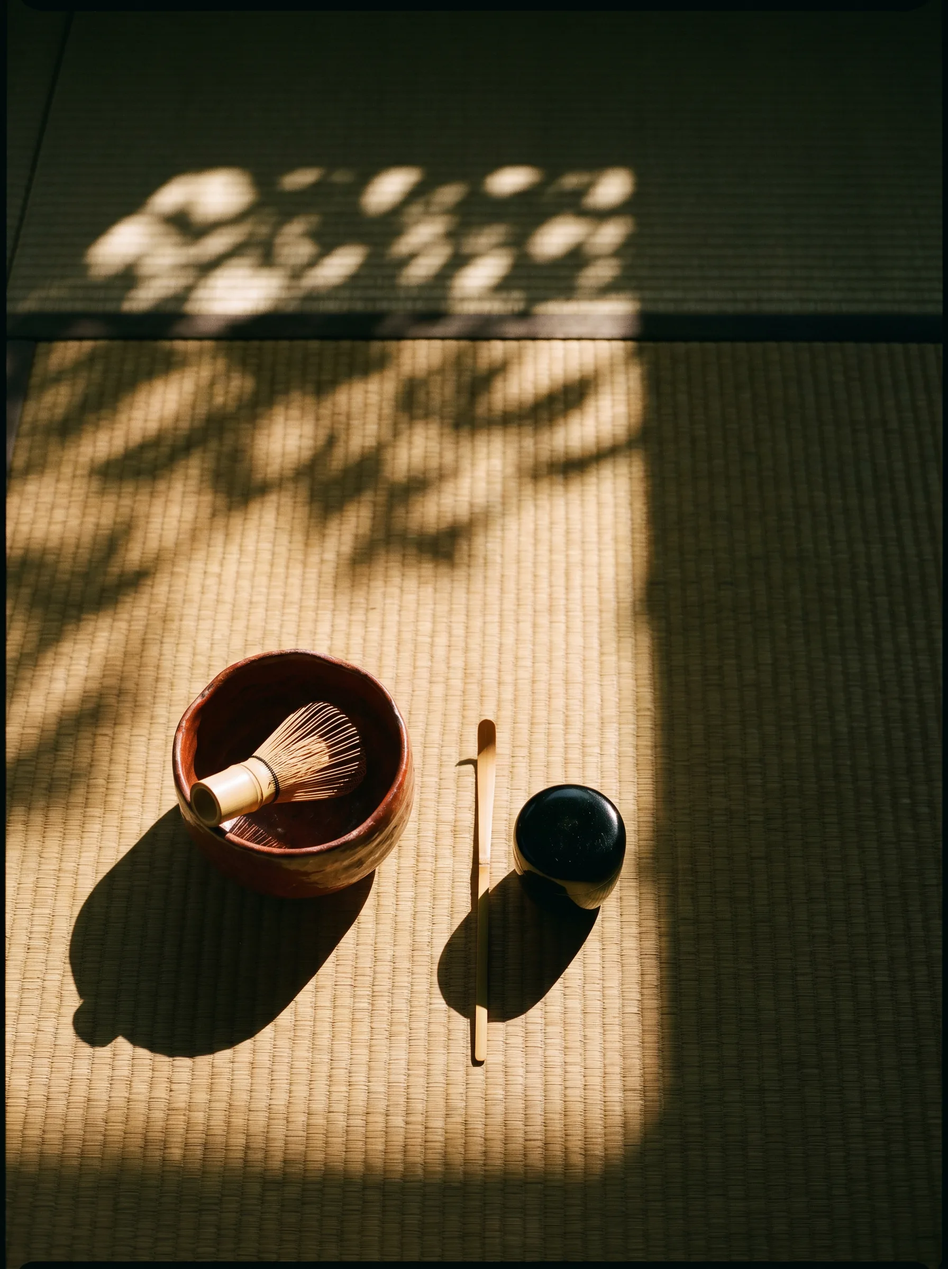
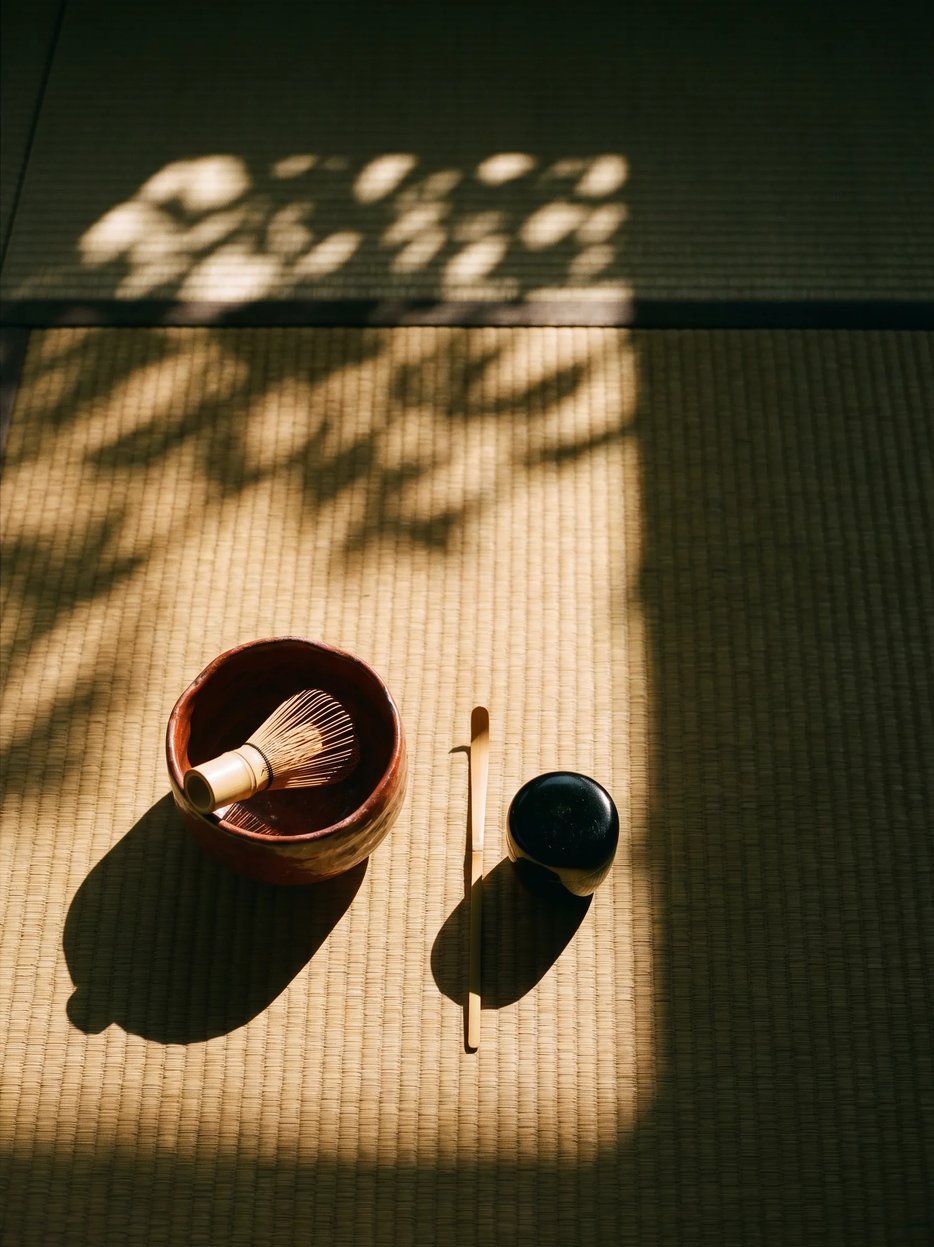
Fix mask-reveal photos never opening; trim mood_02's black bars
The Stay Concept and amenity photos stayed hidden: .mk-reveal-mask put
its closing clip-path on the figure that use:reveal observes, and
Chrome's IntersectionObserver clips a target by its own clip-path, so a
frame clipped to zero height never reached the 0.2 threshold. The clip
(and the blush placeholder) now live on the img; the frame only crops
the zoom, so it can always be observed. The reveal looks the same.

convert_images.py now trims letterbox bars baked into a source (flat
near-black lines on both opposite sides) - mood_02 had ~10px on every
side, showing as hairlines in the amenity frame, the menu tile and the
Osu card.

Changed region(s): [[0.0, 0.0928, 1.0, 1.0], [0.4046, 0.557, 0.4358, 0.6189]]

diff --git a/static/css/base.css b/static/css/base.css
@@ -688,21 +688,25 @@ html.js .reveal-img:not(.is-visible) {
 }
 
 /* Image mask reveal (MKSK): the frame opens top-down while the photo
- * settles from a slight zoom. */
+ * settles from a slight zoom. The closing clip sits on the photo, never on
+ * the frame: the frame is what use:reveal observes, and Chrome's
+ * IntersectionObserver clips a target by its own clip-path — a frame
+ * clipped to zero height never reaches the threshold, so it never opens.
+ * The frame only crops the zoom; the placeholder colour belongs on the img
+ * (so it opens with the photo, not before it). */
 .mk-reveal-mask {
-	clip-path: inset(0);
-	transition: clip-path 1.2s var(--mk-ease-silk) var(--reveal-d, 0s);
+	overflow: hidden;
 }
 
 .mk-reveal-mask img {
-	transition: transform 1.6s var(--mk-ease-out) var(--reveal-d, 0s);
-}
-
-html.js .mk-reveal-mask:not(.is-visible) {
-	clip-path: inset(0 0 100% 0);
+	clip-path: inset(0);
+	transition:
+		clip-path 1.2s var(--mk-ease-silk) var(--reveal-d, 0s),
+		transform 1.6s var(--mk-ease-out) var(--reveal-d, 0s);
 }
 
 html.js .mk-reveal-mask:not(.is-visible) img {
+	clip-path: inset(0 0 100% 0);
 	transform: scale(1.08);
 }
 
@@ -717,7 +721,7 @@ html.js .mk-reveal-mask:not(.is-visible) img {
 	}
 }
 
-html.js:not(.is-hydrated) :is(.reveal-text, .reveal-img, .mk-reveal-mask) {
+html.js:not(.is-hydrated) :is(.reveal-text, .reveal-img, .mk-reveal-mask img) {
 	animation: mk-reveal-failsafe 0s 4s forwards;
 }
 

diff --git a/src/lib/components/top/TopAmenity.svelte b/src/lib/components/top/TopAmenity.svelte
@@ -22,8 +22,8 @@
 	<figure class="amenity-fig amenity-fig--wide mk-reveal-mask" use:reveal>
 		<img
 			src="/images/mood_02.webp"
-			width="1792"
-			height="2400"
+			width="1767"
+			height="2359"
 			alt={copy.imageAlts[0]}
 			loading="lazy"
 			decoding="async"
@@ -76,17 +76,18 @@
 	}
 
 	/* ─── Photos ─────────────────────────────────────── */
-	/* overflow: hidden keeps the mask reveal's 1.08 zoom inside the frame;
-	 * blush shows while the lazy image decodes. */
+	/* overflow: hidden keeps the mask reveal's 1.08 zoom inside the frame.
+	 * Blush shows while the lazy image decodes — on the img, so it opens
+	 * with the mask reveal rather than standing in the frame before it. */
 	.amenity-fig {
 		overflow: hidden;
-		background: var(--mk-blush);
 	}
 
 	.amenity-fig img {
 		width: 100%;
 		height: 100%;
 		object-fit: cover;
+		background: var(--mk-blush);
 	}
 
 	.amenity-fig--wide {

diff --git a/src/lib/components/top/TopConcept.svelte b/src/lib/components/top/TopConcept.svelte
@@ -70,14 +70,16 @@
 		width: calc(100% + var(--mk-inset));
 		aspect-ratio: var(--mk-card-ratio);
 		overflow: hidden;
-		background: var(--mk-blush);
 	}
 
+	/* Blush shows while the lazy image decodes — on the img, so it opens
+	 * with the mask reveal rather than standing in the frame before it. */
 	.concept-figure img {
 		width: 100%;
 		height: 100%;
 		object-fit: cover;
 		object-position: var(--concept-focus);
+		background: var(--mk-blush);
 	}
 
 	/* Tablet and up — Figma 220:663. At 1440 (scrollY 726): eyebrow 301,

diff --git a/src/app.html b/src/app.html
@@ -78,7 +78,7 @@
 			crossorigin="anonymous"
 		/>
 		<!-- base.css cache-bust: bump ?v= on every base.css edit -->
-		<link rel="stylesheet" href="%sveltekit.assets%/css/base.css?v=20261007e" />
+		<link rel="stylesheet" href="%sveltekit.assets%/css/base.css?v=20261007f" />
 		%sveltekit.head%
 	</head>
 	<body data-sveltekit-preload-data="hover">

diff --git a/scripts/convert_images.py b/scripts/convert_images.py
@@ -10,6 +10,7 @@ to static/images/. Re-run whenever originals change:
 
 from pathlib import Path
 
+import numpy as np
 from PIL import Image
 
 ROOT = Path(__file__).resolve().parent.parent
@@ -22,9 +23,46 @@ QUALITY = 82
 OGP_SOURCE = "mood_00.png"
 OGP_SIZE = (1200, 630)
 
+# Letterbox bars baked into a source (mood_02 has ~10px of black on every
+# side) show as hairlines once object-fit: cover crops the photo. A border
+# line counts as a bar when it is near-black AND flat, and an axis is only
+# trimmed when BOTH its sides have one — a dark area on one edge (the hero's
+# black post on the right) is part of the photo, not a letterbox.
+BORDER_LUMA_MAX = 12
+BORDER_STD_MAX = 6
+BORDER_MAX_SHARE = 0.03  # never trim more than 3% of a side
+BORDER_PAD = 3  # plus the soft anti-aliased lines just inside a bar
+
+
+def _bar_depth(lines) -> int:
+    depth = 0
+    for line in lines:
+        if line.mean() > BORDER_LUMA_MAX or line.std() > BORDER_STD_MAX:
+            break
+        depth += 1
+    return depth
+
+
+def trim_black_bars(im: Image.Image) -> Image.Image:
+    luma = np.asarray(im.convert("L"), dtype=float)
+    h, w = luma.shape
+    cap_x, cap_y = int(w * BORDER_MAX_SHARE), int(h * BORDER_MAX_SHARE)
+
+    def axis(start_lines, end_lines, cap):
+        a, b = _bar_depth(start_lines), _bar_depth(end_lines)
+        if not (a and b):
+            return 0, 0
+        return min(a + BORDER_PAD, cap), min(b + BORDER_PAD, cap)
+
+    left, right = axis(luma.T, luma.T[::-1], cap_x)
+    top, bottom = axis(luma, luma[::-1], cap_y)
+    if not (left or right or top or bottom):
+        return im
+    return im.crop((left, top, w - right, h - bottom))
+
 
 def to_webp(src: Path) -> None:
-    im = Image.open(src)
+    im = trim_black_bars(Image.open(src))
     if im.width > MAX_W:
         im = im.resize((MAX_W, round(im.height * MAX_W / im.width)), Image.LANCZOS)
     out = OUT_DIR / f"{src.stem}.webp"
